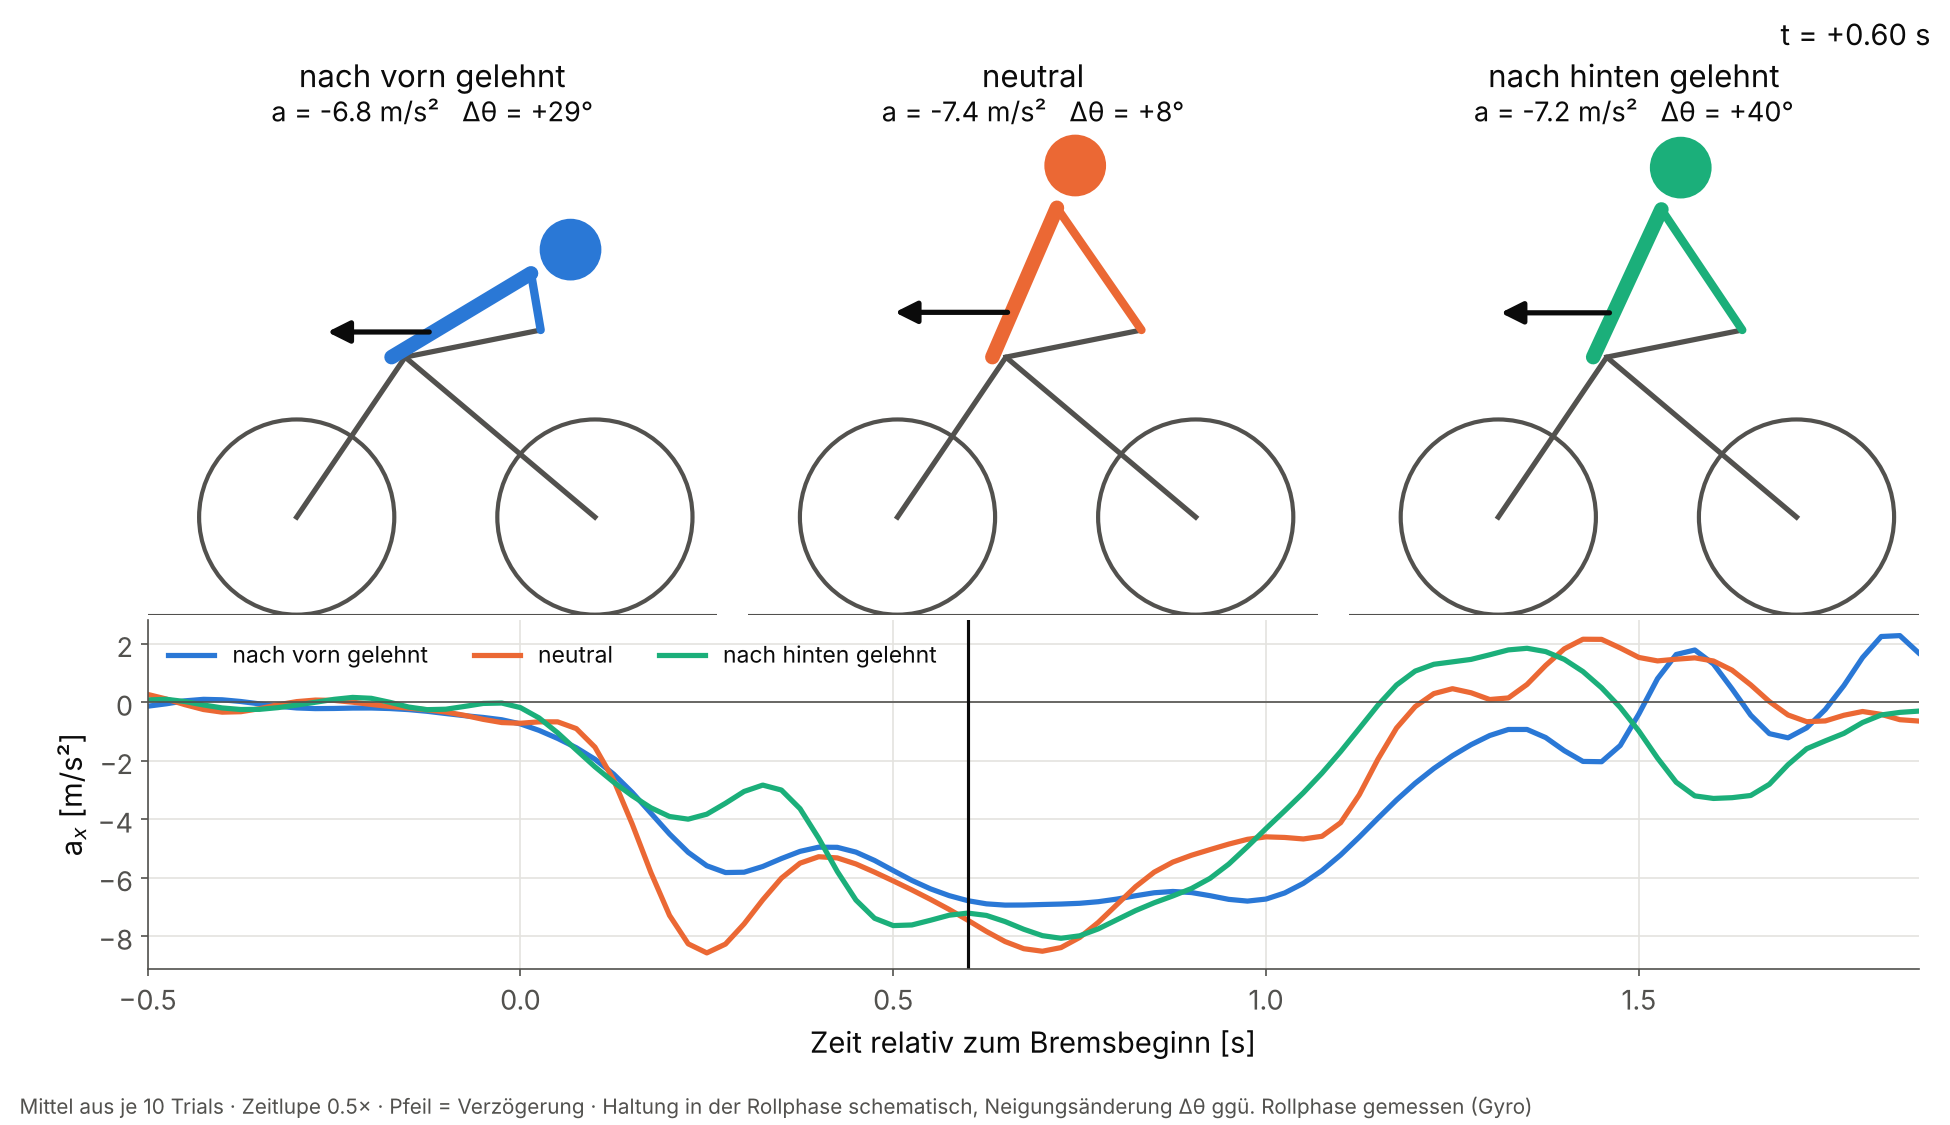
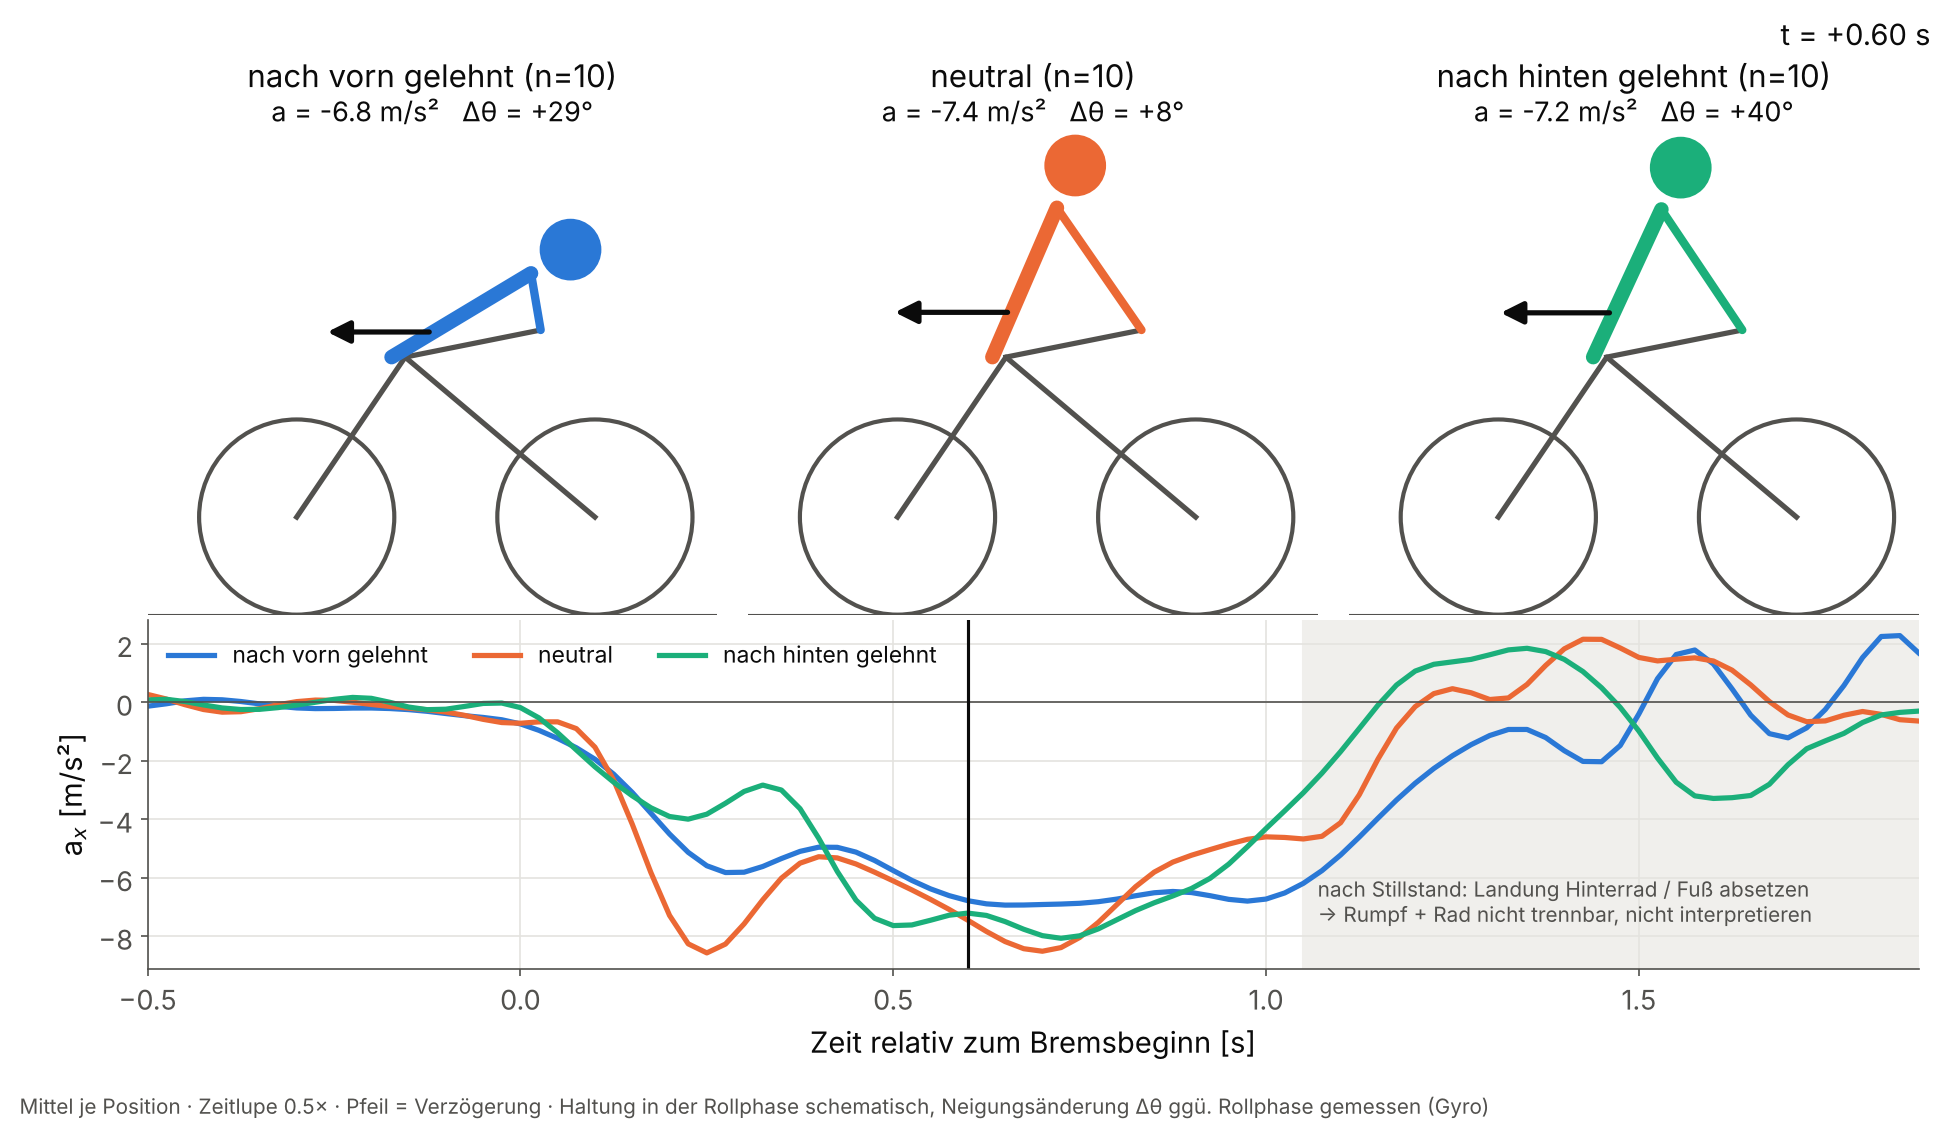
Stoppie: Ausschlussliste, Stoß-Kennwert, Fig 9 markiert Phase nach Stillstand
Claude-Session: https://claude.ai/code/session_01VrucjPWBajvsVALb3yb3mv

diff --git a/analysis/extra_figures.py b/analysis/extra_figures.py
@@ -21,7 +21,7 @@ from matplotlib.colors import LinearSegmentedColormap
 
 sys.path.insert(0, os.path.dirname(os.path.abspath(__file__)))
 from brake_pipeline import G  # noqa: E402
-from run_analysis import POS, LABEL, COL, INK, INK2, GRID, OUT_FIG, style, run_all, table  # noqa: E402
+from run_analysis import POS, LABEL, COL, INK, INK2, GRID, OUT_FIG, STOPPIE, style, run_all, table  # noqa: E402
 
 SHORT = {"Vorne": "vorn", "Neutral": "neutral", "Hinten": "hinten"}
 # Sequentielle Rampe (ein Farbton, hell -> dunkel) aus der Referenzpalette
@@ -219,7 +219,7 @@ def fig_gg(trials):
 
 # --------------------------------------------------------------------------- Fig 9
 # Ausgangshaltung des Rumpfs (Grad aus der Senkrechten, + = nach vorn) ist NICHT gemessen,
-# nur schematisch; animiert wird die gemessene Neigungsänderung ab Bremsbeginn.
+# nur schematisch; animiert wird die gemessene Neigungsänderung ggü. der Rollphase.
 START_LEAN = {"Vorne": 30.0, "Neutral": 15.0, "Hinten": -15.0}   # Haltung in der Rollphase
 TRUNK, ARM = 0.60, 0.55   # m, schematische Segmentlängen
 
@@ -227,9 +227,12 @@ TRUNK, ARM = 0.60, 0.55   # m, schematische Segmentlängen
 def fig_animation(trials, fps=20, slow=0.5):
     dt = slow / fps   # Zeitlupe: 'slow' s Realzeit pro s Video
     grid = np.arange(-0.5, 1.9, dt)
-    mean = {}
+    mean, n, t_stop = {}, {}, {}
     for p in POS:
-        tr = [x for x in trials if x["position"] == p]
+        # Stoppie-Trials ausschließen: Handy-Neigung = Rumpf + Radnicken
+        tr = [x for x in trials if x["position"] == p and x["name"] not in STOPPIE]
+        n[p] = len(tr)
+        t_stop[p] = np.median([r["t_stop"] for r in tr])
         mean[p] = (np.nanmean([on_grid(r, "a_x", grid) for r in tr], 0),
                    np.nanmean([on_grid(r, "pitch", grid) for r in tr], 0))
     fig = plt.figure(figsize=(13, 7.5))
@@ -255,18 +258,22 @@ def fig_animation(trials, fps=20, slow=0.5):
         arrows[p] = ax.annotate("", xy=(0, 0), xytext=(0, 0),
                                 arrowprops=dict(arrowstyle="-|>", color=INK, lw=2.5, mutation_scale=22))
         txt[p] = ax.text(0.15, 1.82, "", ha="center", fontsize=13, color=INK)
-        ax.set_title(LABEL[p], fontsize=15, color=INK)
+        ax.set_title(f"{LABEL[p]} (n={n[p]})", fontsize=15, color=INK)
         bike_axes.append(ax)
     axc = fig.add_subplot(gs[1, :])
     for p in POS:
         axc.plot(grid, mean[p][0], color=COL[p], lw=2.5, label=LABEL[p])
     axc.axhline(0, color=INK2, lw=0.8)
+    t_after = min(t_stop.values())
+    axc.axvspan(t_after, grid[-1], color="#f0efec", zorder=0)
+    axc.text(t_after + 0.02, -7.5, "nach Stillstand: Landung Hinterrad / Fuß absetzen\n"
+             "→ Rumpf + Rad nicht trennbar, nicht interpretieren", fontsize=10, color=INK2)
     cursor = axc.axvline(grid[0], color=INK, lw=1.5)
     axc.set_xlim(grid[0], grid[-1])
     axc.set_xlabel("Zeit relativ zum Bremsbeginn [s]")
     axc.set_ylabel("a$_x$ [m/s²]")
     axc.legend(loc="upper left", frameon=False, ncol=3, fontsize=11)
-    fig.text(0.01, 0.01, f"Mittel aus je 10 Trials · Zeitlupe {slow:g}× · Pfeil = Verzögerung · "
+    fig.text(0.01, 0.01, f"Mittel je Position{' (ohne Stoppie-Trials)' if STOPPIE else ''} · Zeitlupe {slow:g}× · Pfeil = Verzögerung · "
              "Haltung in der Rollphase schematisch, Neigungsänderung Δθ ggü. Rollphase gemessen (Gyro)",
              fontsize=10, color=INK2)
     clock_txt = fig.text(0.99, 0.96, "", ha="right", fontsize=14, color=INK)
@@ -283,7 +290,10 @@ def fig_animation(trials, fps=20, slow=0.5):
             ksp = hip + 0.3 * TRUNK * np.array([np.sin(lean), np.cos(lean)])
             arrows[p].xy = tuple(ksp + np.array([0.06 * a, 0]))   # a < 0 -> Pfeil nach hinten
             arrows[p].set_position(tuple(ksp))
-            txt[p].set_text(f"a = {a:+.1f} m/s²   Δθ = {pitch:+.0f}°")
+            after = grid[k] > t_stop[p]   # nach Stillstand: Figur blass
+            for art in (trunk, arm, head):
+                art.set_alpha(0.3 if after else 1.0)
+            txt[p].set_text(f"a = {a:+.1f} m/s²   Δθ = {pitch:+.0f}°" + ("  (Stillstand)" if after else ""))
         cursor.set_xdata([grid[k]] * 2)
         clock_txt.set_text(f"t = {grid[k]:+.2f} s")
         return []

diff --git a/analysis/run_analysis.py b/analysis/run_analysis.py
@@ -27,6 +27,10 @@ LABEL = {"Vorne": "nach vorn gelehnt", "Neutral": "neutral", "Hinten": "nach hin
 # Kategoriale Farben (validierte Referenzpalette, Slots 1-3, in fester Reihenfolge)
 COL = {"Vorne": "#2a78d6", "Neutral": "#eb6834", "Hinten": "#1baf7a"}
 INK, INK2, GRID = "#0b0b0b", "#52514e", "#e4e3df"
+# Trials mit (versehentlichem) Stoppie, z. B. {"Hinten Trial 15-31-33"}. Aus den Daten allein nicht
+# eindeutig erkennbar (Handy am Bauch misst Rumpf + Rad gemeinsam) -> nur aus Protokoll/Video eintragen.
+# Wirkung: Kennzeichnung in results_trials.csv, Sensitivitätsanalyse in stats.txt, Ausschluss in Fig 9.
+STOPPIE = set()
 
 METRICS = [
     ("mean", "Mittlere Verzögerung", "m/s²"),
@@ -65,8 +69,16 @@ def run_all():
 def table(trials):
     rows = [{"Position": r["position"], "Trial": r["name"],
              **{k: r[k] for k, _, _ in METRICS},
-             "delta_v": r["dv"], "t_start": r["t_start"], "t_end": r["t_end"]} for r in trials]
+             "delta_v": r["dv"], "t_start": r["t_start"], "t_end": r["t_end"],
+             "stoppie": r["name"] in STOPPIE, "stoss_nach_g": impact_g(r)} for r in trials]
     return pd.DataFrame(rows)
+
+
+def impact_g(r):
+    """Größter vertikaler Stoß [g] von 0,3 s vor bis 1,0 s nach Fensterende (Landung
+    Hinterrad, Fuß absetzen, Zurücksetzen in den Sattel - nicht unterscheidbar)."""
+    w = (r["t"] > r["t_end"] - 0.3) & (r["t"] < r["t_end"] + 1.0)
+    return r["a_v"][w].max() / 9.81
 
 
 def fmt_p(p):
@@ -223,6 +235,12 @@ def main():
             f"vs. Bremsweg {df.dist.mean():.2f} m\n"
             f"Hinweis: Positionen geblockt aufgenommen (Vorne 14:51-15:05, Neutral 15:06-15:21, "
             f"Hinten 15:23-15:33) -> Reihenfolge-/Übungseffekt nicht trennbar\n")
+    if STOPPIE:
+        s = df[~df.stoppie]
+        grp = [s.loc[s.Position == p, "mean"] for p in POS]
+        head += (f"Sensitivität ohne Stoppie-Trials ({len(STOPPIE)}): ā " +
+                 ", ".join(f"{p} {g.mean():.2f} (n={len(g)})" for p, g in zip(POS, grp)) +
+                 f"; Kruskal-Wallis {fmt_p(stats.kruskal(*grp).pvalue)}\n")
     with open(os.path.join(OUT_RES, "stats.txt"), "w", encoding="utf-8") as f:
         f.write(head + txt + "\n")
     print(head + txt)

diff --git a/README.md b/README.md
@@ -88,7 +88,7 @@ Sensitivitätsanalyse: Mit ā' = v₀ / Zeit bis Stillstand bleibt die Reihenfol
 | `Fig6_Heatmap_Trials.png` | alle 30 a_x(t)-Verläufe, nach Uhrzeit sortiert; Strich = Ende Bremsfenster, Raute = v_Rumpf = 0 | Der Einbruch bei hinten (≈ 0,3–0,5 s) ist in praktisch allen Trials sichtbar. In 26/30 Trials erreicht v_Rumpf = 0 im Mittel 0,06 s vor dem Fensterende (vorn/neutral: v ≈ −0,4 bis −0,5 m/s am Fensterende). Das Fensterende enthält also schon den Rückschwung des Rumpfs; die Sensitivitätsanalyse ā' = v₀/t_Stopp bestätigt trotzdem dieselbe Reihenfolge. Farbflecken nach dem Stopp sind Rumpfschwingungen, keine Bremsung. |
 | `Fig7_Phasenportraet.png` | Verzögerung über der Geschwindigkeit (v₀ → 0), Einzeltrials und Mittel in 1-km/h-Klassen (nur Klassen mit ≥ 5 Trials) | Die Wellen sind die Rumpfschwingung (≈ 3–4 Hz). Unter ≈ 3 km/h wird das Signal unruhig (Stillstand, Abstützen). |
 | `Fig8_gg_Diagramm.png` | Quer- gegen Längsbeschleunigung im Bremsfenster [g], mit Reifenhaftkreis (0,7–0,8 g) und Überschlaggrenze (0,55–0,65 g) | Die Trial-Mittel (ā = 0,42–0,59 g) liegen knapp unterhalb bzw. am unteren Rand der Überschlaggrenze. Das Band ist für alle Positionen gleich; eine Verschiebung der Rumpfmasse ändert die Grenze nur um ≈ ±0,03 g. Anteil der Rumpf-Samples über μg: 16 % (vorn), 30 % (neutral), 26 % (hinten). Die Spitzen des Rumpfsignals reichen über beide Grenzen hinaus, sind also kein KSP-Wert. Die Querbeschleunigung ist ≈ 0, wie bei einer geraden Bremsung zu erwarten. |
-| `Fig9_Rumpf_Animation.gif` (+ Standbild) | Mittel je Position: Rumpfneigung und a_x, Zeitlupe 0,5× | **Die Haltung in der Rollphase ist schematisch** (vorn 30°, neutral 15°, hinten −15° zur Senkrechten). Gemessen ist nur die Neigungsänderung Δθ gegenüber der Rollphase. Nur zur Veranschaulichung, nicht für Kennwerte verwenden. |
+| `Fig9_Rumpf_Animation.gif` (+ Standbild) | Mittel je Position: Rumpfneigung und a_x, Zeitlupe 0,5× | **Die Haltung in der Rollphase ist schematisch** (vorn 30°, neutral 15°, hinten −15° zur Senkrechten). Gemessen ist nur die Neigungsänderung Δθ gegenüber der Rollphase. Nur zur Veranschaulichung, nicht für Kennwerte verwenden. **Stoppie:** Das Handy am Bauch misst Rumpf- und Radnicken zusammen, ein Stoppie ist aus den Daten allein nicht eindeutig erkennbar. Die vertikalen Stöße > 1 g (`stoss_nach_g` in `results_trials.csv`, 11/30 Trials) liegen 0,3–1,0 s **nach** dem Stillstand, also nach dem Rumpfmaximum. Der Bereich nach Stillstand ist in der Animation grau bzw. blass markiert. Ein abhebendes Hinterrad (10–30 cm bei ≈ 1,2 m Radstand) würde das Handy um ≈ 5–14° zusätzlich kippen. Trials mit Stoß > 1 g haben aber praktisch die gleiche max. Rumpfneigung (vorn 38 vs. 38°, hinten 44 vs. 44°). Bekannte Stoppie-Trials in `STOPPIE` (`analysis/run_analysis.py`) eintragen: Sie werden dann in Fig 9 ausgeschlossen, und `stats.txt` enthält eine Sensitivitätsanalyse. |
 
 ## Struktur
 - `analysis/io_phyphox.py`: robustes CSV-Einlesen (Komma/Tab, Dezimalpunkt/-komma)
